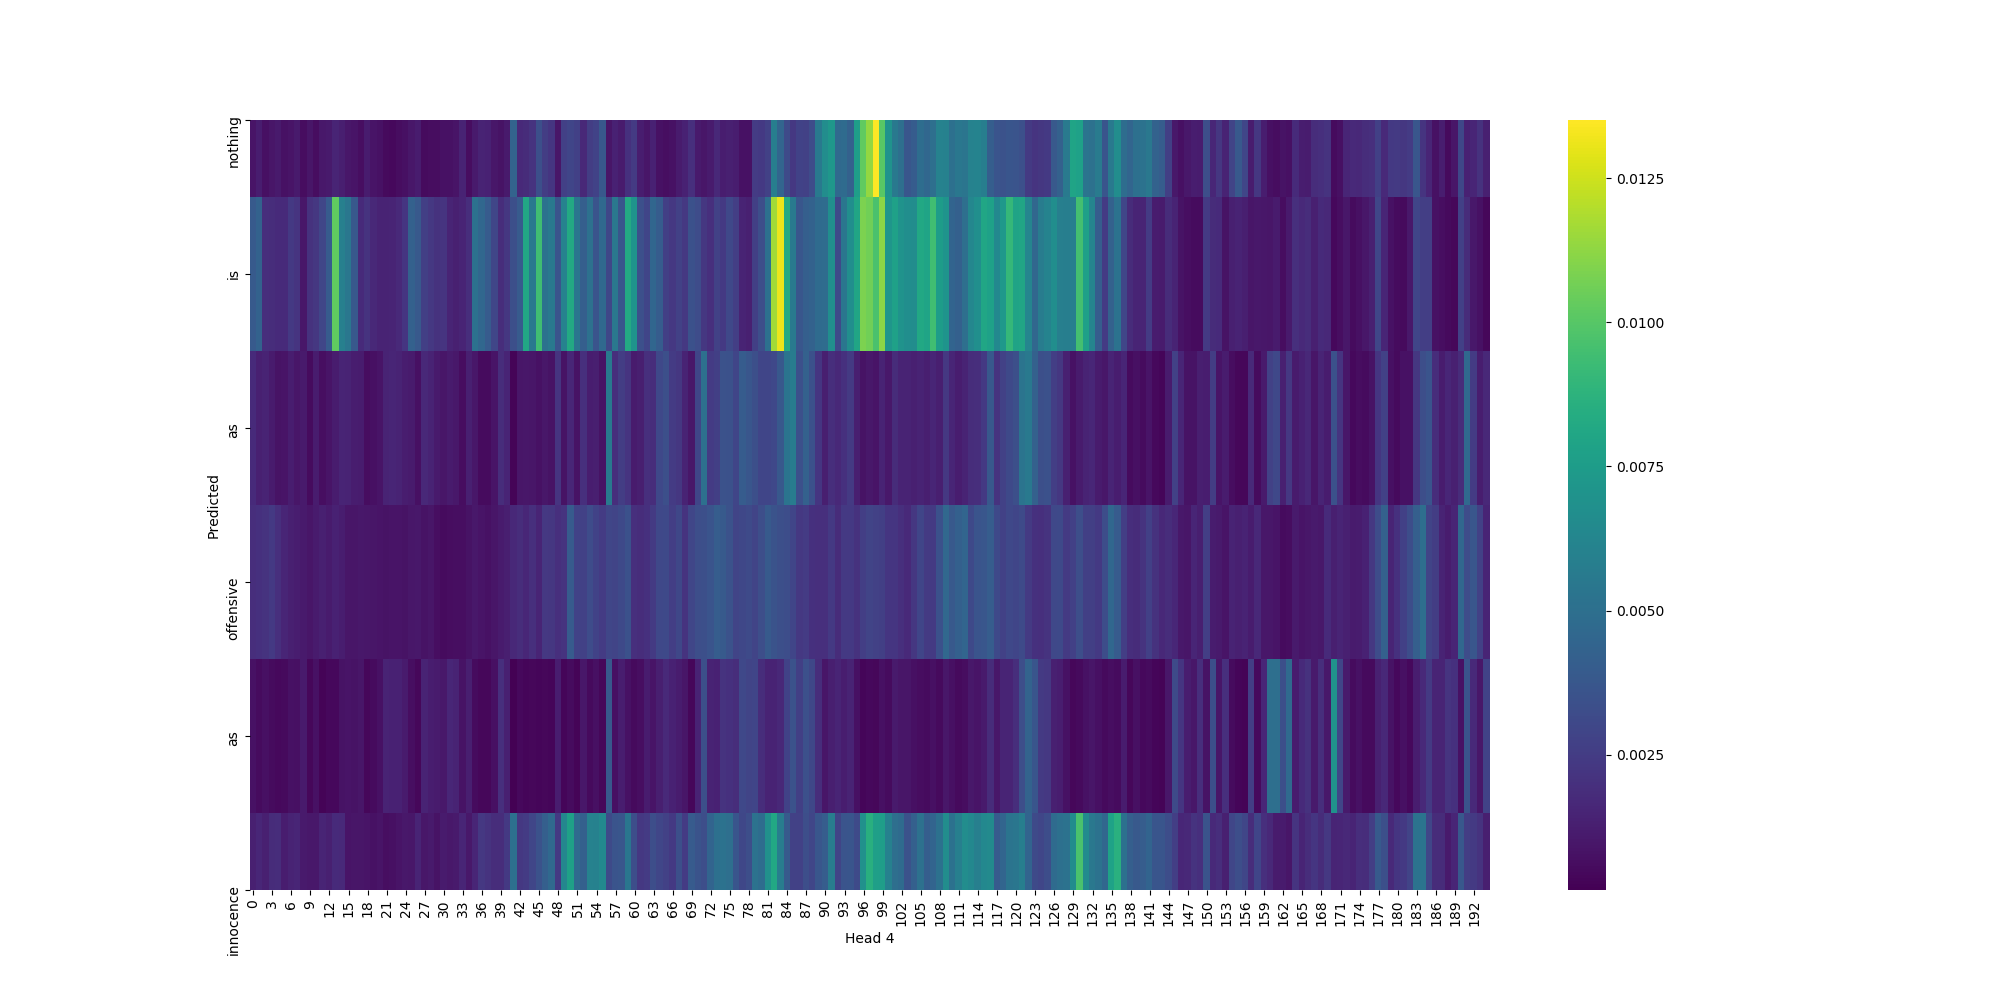
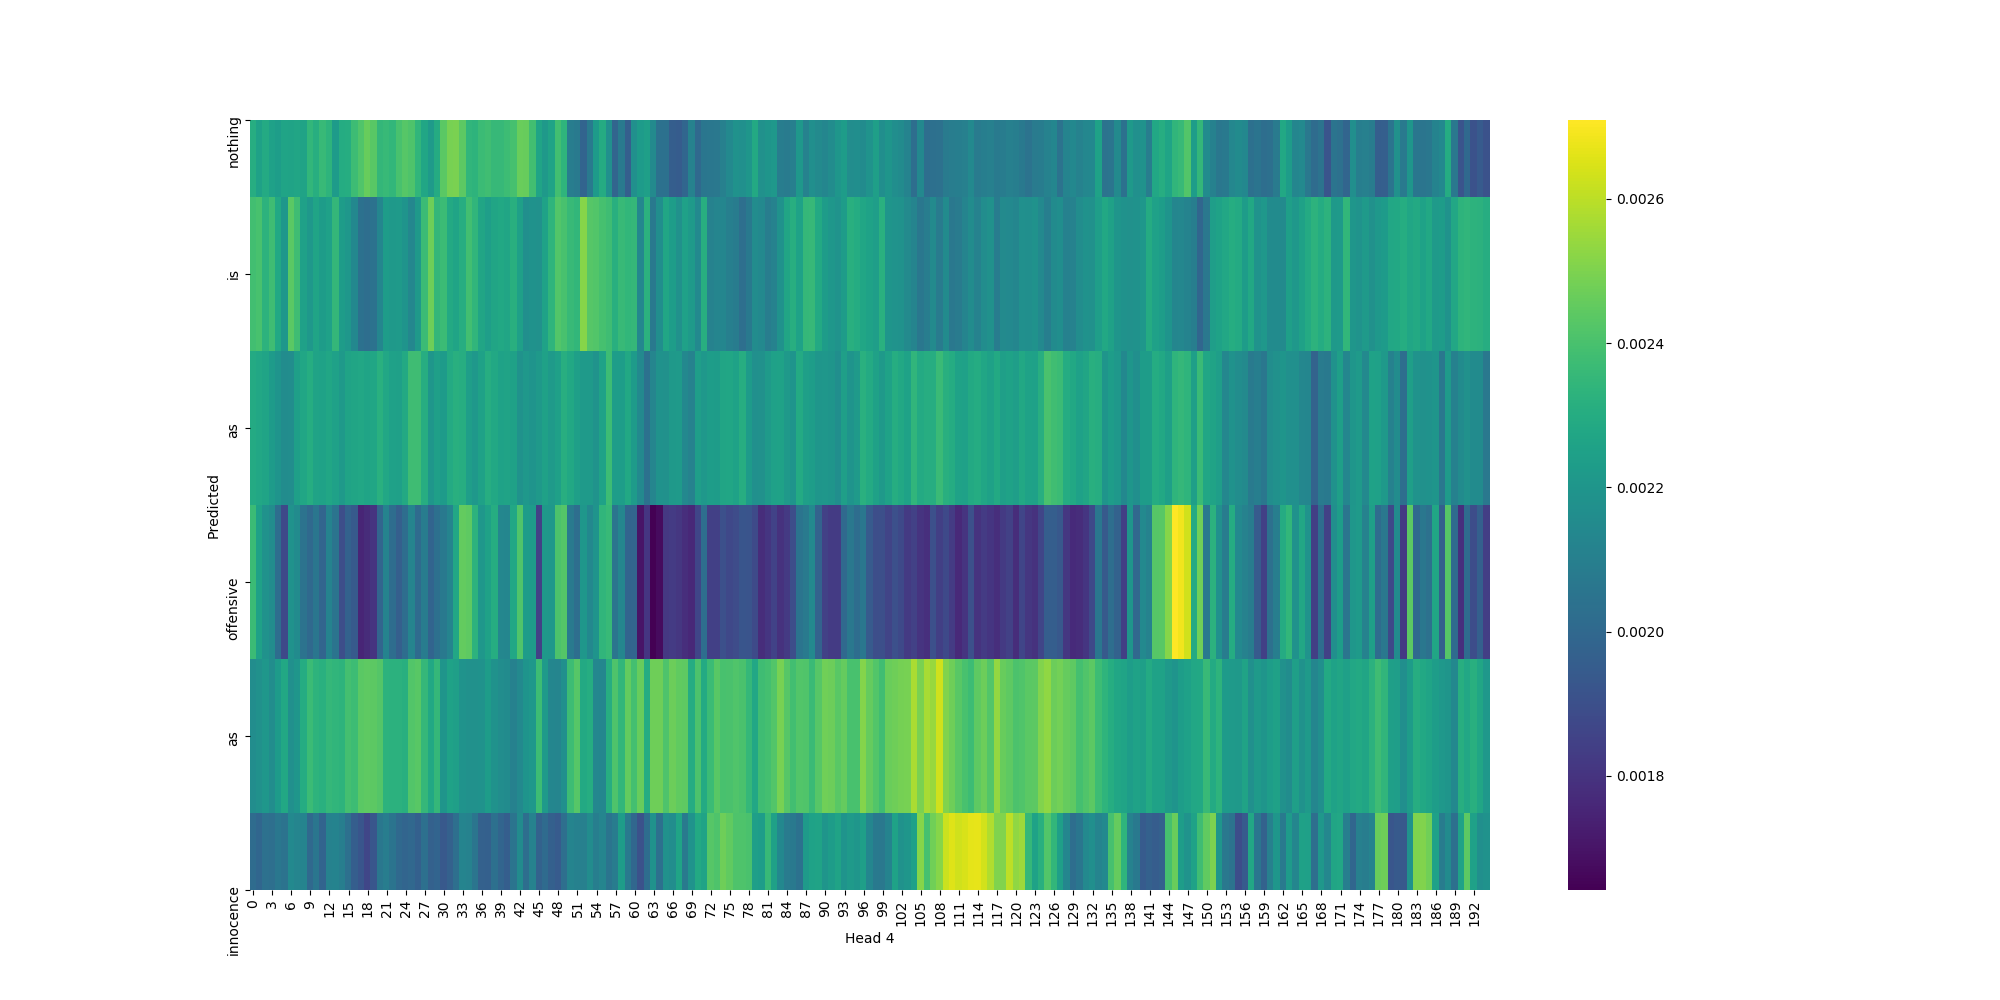
add prenet

diff --git a/transformer/codes/transformer/attention.py b/transformer/codes/transformer/attention.py
@@ -37,14 +37,72 @@ def scaled_dot_product_attention(q, k, v, mask):
     output = tf.matmul(attention_weights, v)  # (..., seq_len_q, depth_v)
 
     return output, attention_weights
+class TwoD_Attention_layer(tf.keras.layers.Layer):
+    def __init__(self,n = 64,c =64):
+        super(TwoD_Attention_layer, self).__init__()
+        self.n = n
+        self.c = c
+        self.convq = tf.keras.layers.Conv2D(c, 3, 1, 'same', kernel_initializer='glorot_normal')
+        self.convk = tf.keras.layers.Conv2D(c, 3, 1, 'same', kernel_initializer='glorot_normal')
+        self.convv = tf.keras.layers.Conv2D(c, 3, 1, 'same', kernel_initializer='glorot_normal')
+        self.conv = tf.keras.layers.Conv2D(n, 3, 1, 'same', kernel_initializer='glorot_normal')
+        self.bnq = tf.keras.layers.BatchNormalization()
+        self.bnk = tf.keras.layers.BatchNormalization()
+        self.bnv = tf.keras.layers.BatchNormalization()
+        self.ln = tf.keras.layers.LayerNormalization()
 
+        self.final_conv1 = tf.keras.layers.Conv2D(n, 3, 1, 'same', activation='relu',
+                                                  kernel_initializer='glorot_normal')
+        self.final_conv2 = tf.keras.layers.Conv2D(n, 3, 1, 'same', kernel_initializer='glorot_normal')
+        self.bnf1 = tf.keras.layers.BatchNormalization()
+        self.bnf2 = tf.keras.layers.BatchNormalization()
+        self.act = tf.keras.layers.Activation('relu')
+
+    def call(self,inputs,training):
+        '''
+
+        :param inputs: B*T*D*n
+        :return: B*T*D*n
+        '''
+        residual = inputs
+        batch_size = tf.shape(inputs)[0]
+        q = self.bnq(self.convq(inputs),training=training)
+        k = self.bnk(self.convk(inputs),training=training)
+        v = self.bnv(self.convv(inputs),training=training)
+
+        q_time = tf.transpose(q,[0,3,1,2])
+        k_time = tf.transpose(k, [0, 3, 1, 2])
+        v_time = tf.transpose(v, [0, 3, 1, 2])
+
+        q_fre = tf.transpose(q,[0,3,2,1])
+        k_fre = tf.transpose(k, [0, 3, 2, 1])
+        v_fre = tf.transpose(v, [0, 3, 2, 1])
+
+        scaled_attention_time, attention_weights_time = scaled_dot_product_attention(
+            q_time, k_time, v_time, None)  # B*c*T*D
+        scaled_attention_fre, attention_weights_fre = scaled_dot_product_attention(
+            q_fre, k_fre, v_fre, None)     # B*c*D*T
+
+        scaled_attention_time = tf.transpose(scaled_attention_time,[0,2,3,1])
+        scaled_attention_fre = tf.transpose(scaled_attention_fre,[0,3,2,1])
+
+        out = tf.concat([scaled_attention_time,scaled_attention_fre],-1) # B*T*D*2c
+
+        out = self.ln(self.conv(out) + residual) # B*T*D*n
+
+        final_out = self.bnf1(self.final_conv1(out),training=training)
+        final_out = self.bnf2(self.final_conv2(final_out),training=training)
+
+        final_out = self.act(final_out + out)
+
+        return final_out
 
 class MultiHeadAttention(tf.keras.layers.Layer):
     def __init__(self, d_model, num_heads):
         super(MultiHeadAttention, self).__init__()
         self.num_heads = num_heads
         self.d_model = d_model
-
+        print(d_model,self.num_heads)
         assert d_model % self.num_heads == 0
 
         self.depth = d_model // self.num_heads
@@ -88,6 +146,39 @@ class MultiHeadAttention(tf.keras.layers.Layer):
 
         return output, attention_weights
 
+
+class Pre_Net(tf.keras.layers.Layer):
+    def __init__(self,num_M=2,n=64,c=64):
+        super(Pre_Net, self).__init__()
+        self.num_M = num_M
+
+        self.downsample = tf.keras.layers.Conv2D(n, 3, 2, 'same', activation='tanh',
+                                                 kernel_initializer='glorot_normal')
+        self.bn = tf.keras.layers.BatchNormalization()
+        self.downsample2 = tf.keras.layers.Conv2D(n, 3, 2, 'same', activation='tanh',
+                                                  kernel_initializer='glorot_normal')
+        self.bn2 = tf.keras.layers.BatchNormalization()
+
+        self.TwoD_layers = [TwoD_Attention_layer(n, c) for _ in range(num_M)]
+
+    def call(self,inputs,training=True):
+        '''
+
+        :param inputs: B*T*D*n
+        :return: B*T*D*c
+        '''
+        inputs = tf.cast(inputs,tf.float32)
+        if len(inputs.shape)==3:
+            shape = inputs.shape
+            inputs = tf.reshape(inputs,[shape[0],shape[1],shape[-1],1])
+        out = self.bn(self.downsample(inputs),training=training)
+        out = self.bn2(self.downsample2(out),training=training)
+        print('downsample.shape:',out.shape)
+
+        for i in range(self.num_M):
+            out = self.TwoD_layers[i](out,training)
+
+        return out
 def print_out(q, k, v):
     temp_out, temp_attn = scaled_dot_product_attention(
       q, k, v, None)
@@ -126,3 +217,7 @@ if __name__ == "__main__":
     y = tf.random.uniform((1, 60, 512))  # (batch_size, encoder_sequence, d_model)
     out, attn = temp_mha(y, k=y, q=y, mask=None)
     print(out.shape, attn.shape)
+    pre = Pre_Net()
+    temp_inp = tf.random.uniform((64, 400, 90), dtype=tf.float32, minval=0, maxval=200)
+    out = pre(temp_inp)
+    print(out.shape)

diff --git a/transformer/codes/transformer/train.py b/transformer/codes/transformer/train.py
@@ -12,9 +12,9 @@ from sklearn.model_selection import train_test_split
 class parameters():
     number_sentence = 3
     num_layers = 4
-    d_model = 90
+    d_model = 64
     dff = 1024
-    num_heads = 15
+    num_heads = 4
     input_vocab_size = 0
     target_vocab_size = 0
     dropout_rate = 0.1
@@ -33,7 +33,6 @@ def train(params):
     input_set, target_set, _, _ = load_data(params)
     input_set, inp_seq_len = pad_sequences(input_set, dtype=np.float32)
     target_set, target_seq_len = pad_sequences(target_set, dtype=np.int64)
-    params.d_model = input_set.shape[-1]
     params.target_vocab_size = len(params.dictionary)+1
     params.max_length = len(target_set[0])
     """
@@ -185,7 +184,7 @@ if __name__ == "__main__":
     number_sentence = [3,5,7,10,20]
     number_layers = [4,6,8,10,12]
     dff = [1024,2048,2048,2048,4096]
-    epochs = [50,50,100,100,200]
+    epochs = [50,70,100,100,200]
     wer_lst = []
     cwd = os.path.dirname(os.path.dirname(os.getcwd()))
     result_path = cwd + "/data/results/"

diff --git a/transformer/codes/transformer/transformer.py b/transformer/codes/transformer/transformer.py
@@ -159,8 +159,12 @@ class Transformer(tf.keras.Model):
 
         self.final_layer = tf.keras.layers.Dense(target_vocab_size)
 
+        self.pre_net = Pre_Net()
     def call(self, inp, tar, training, enc_padding_mask,
              look_ahead_mask, dec_padding_mask):
+
+        inp = self.pre_net(inp, training)
+
         enc_output = self.encoder(inp, training, enc_padding_mask)  # (batch_size, inp_seq_len, d_model)
 
         # dec_output.shape == (batch_size, tar_seq_len, d_model)
